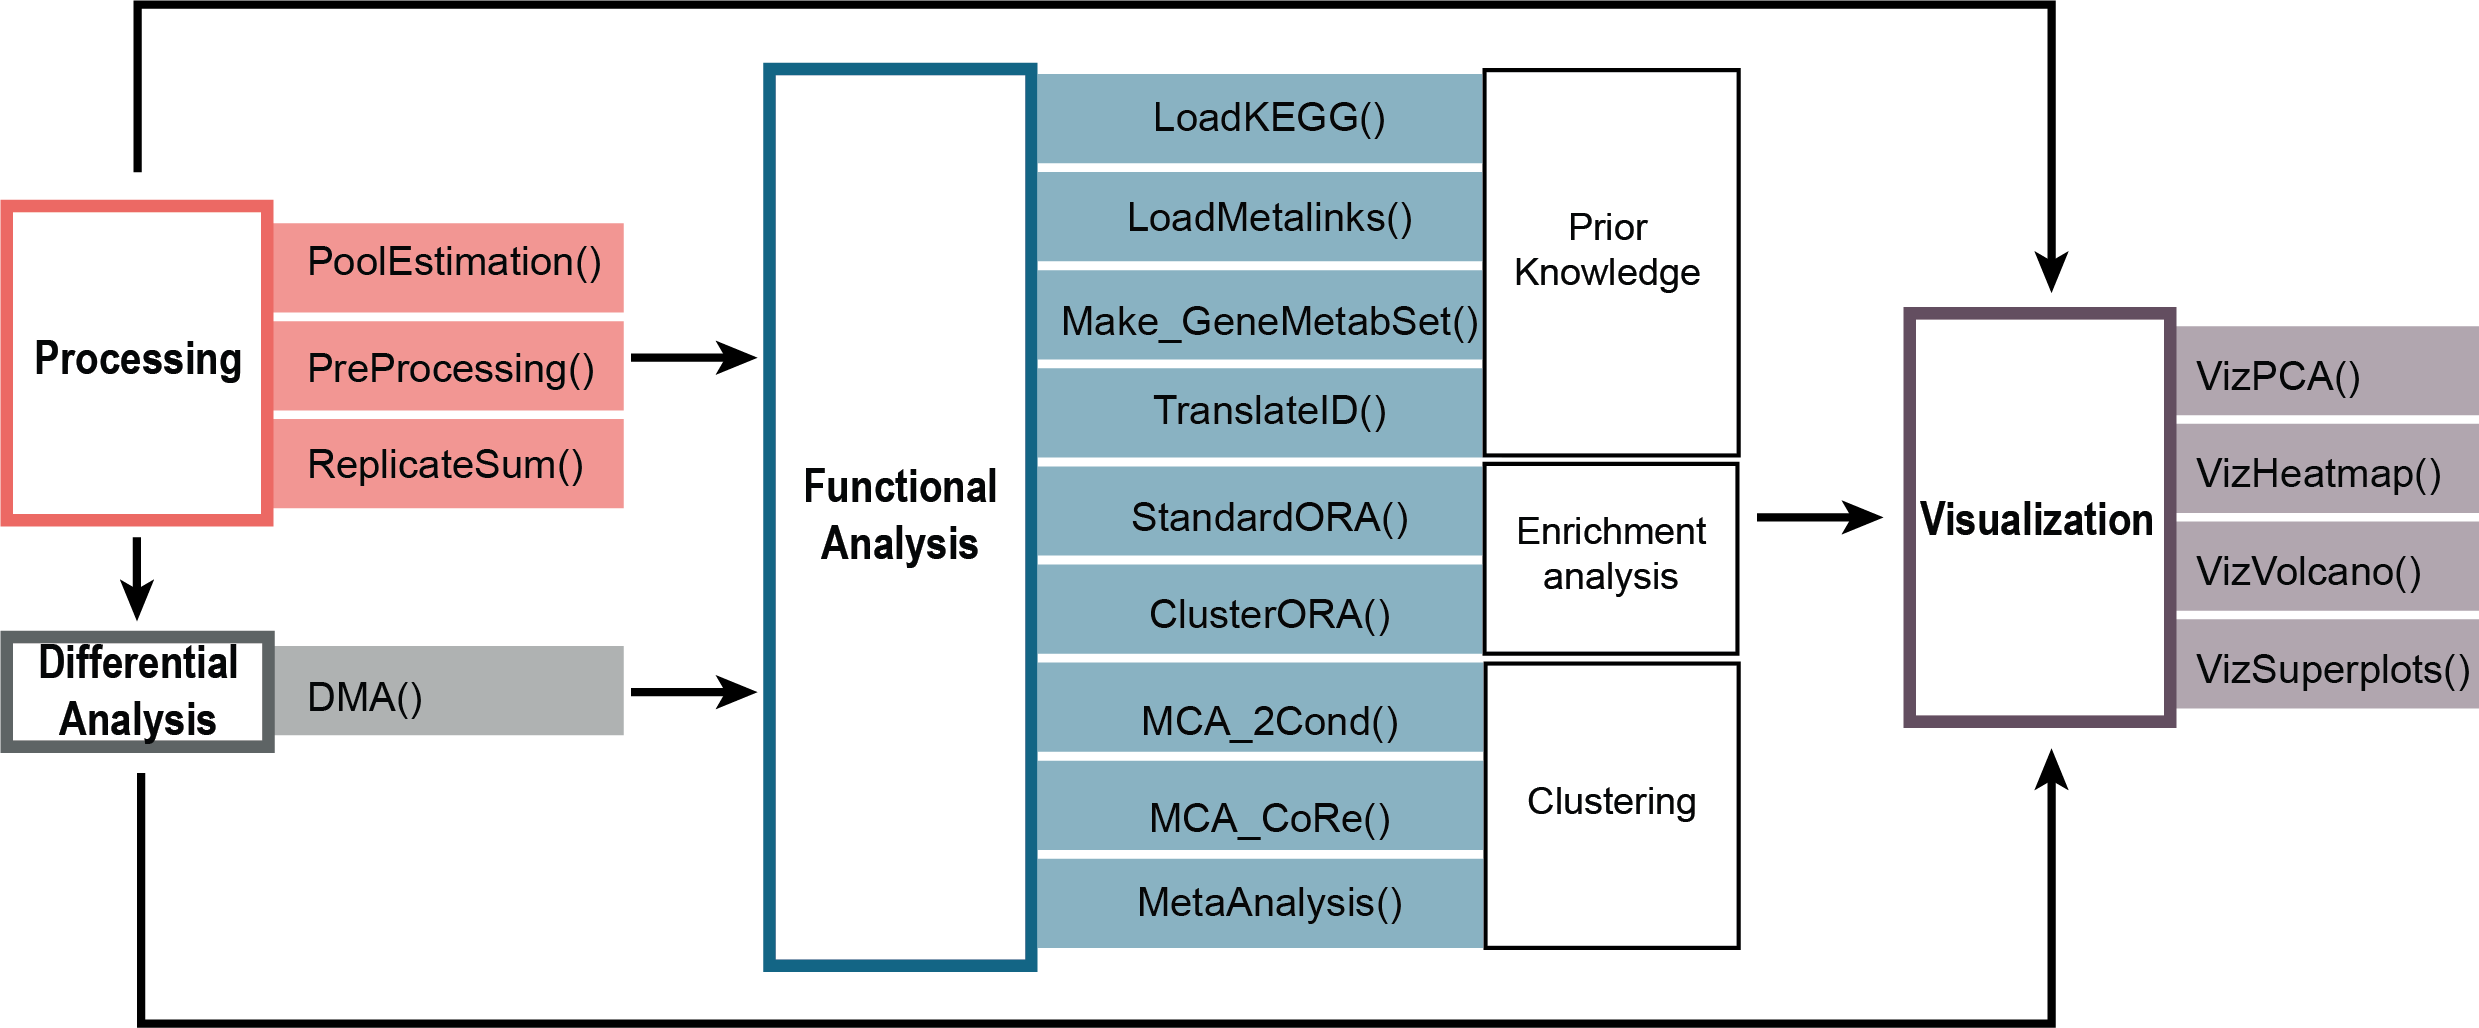
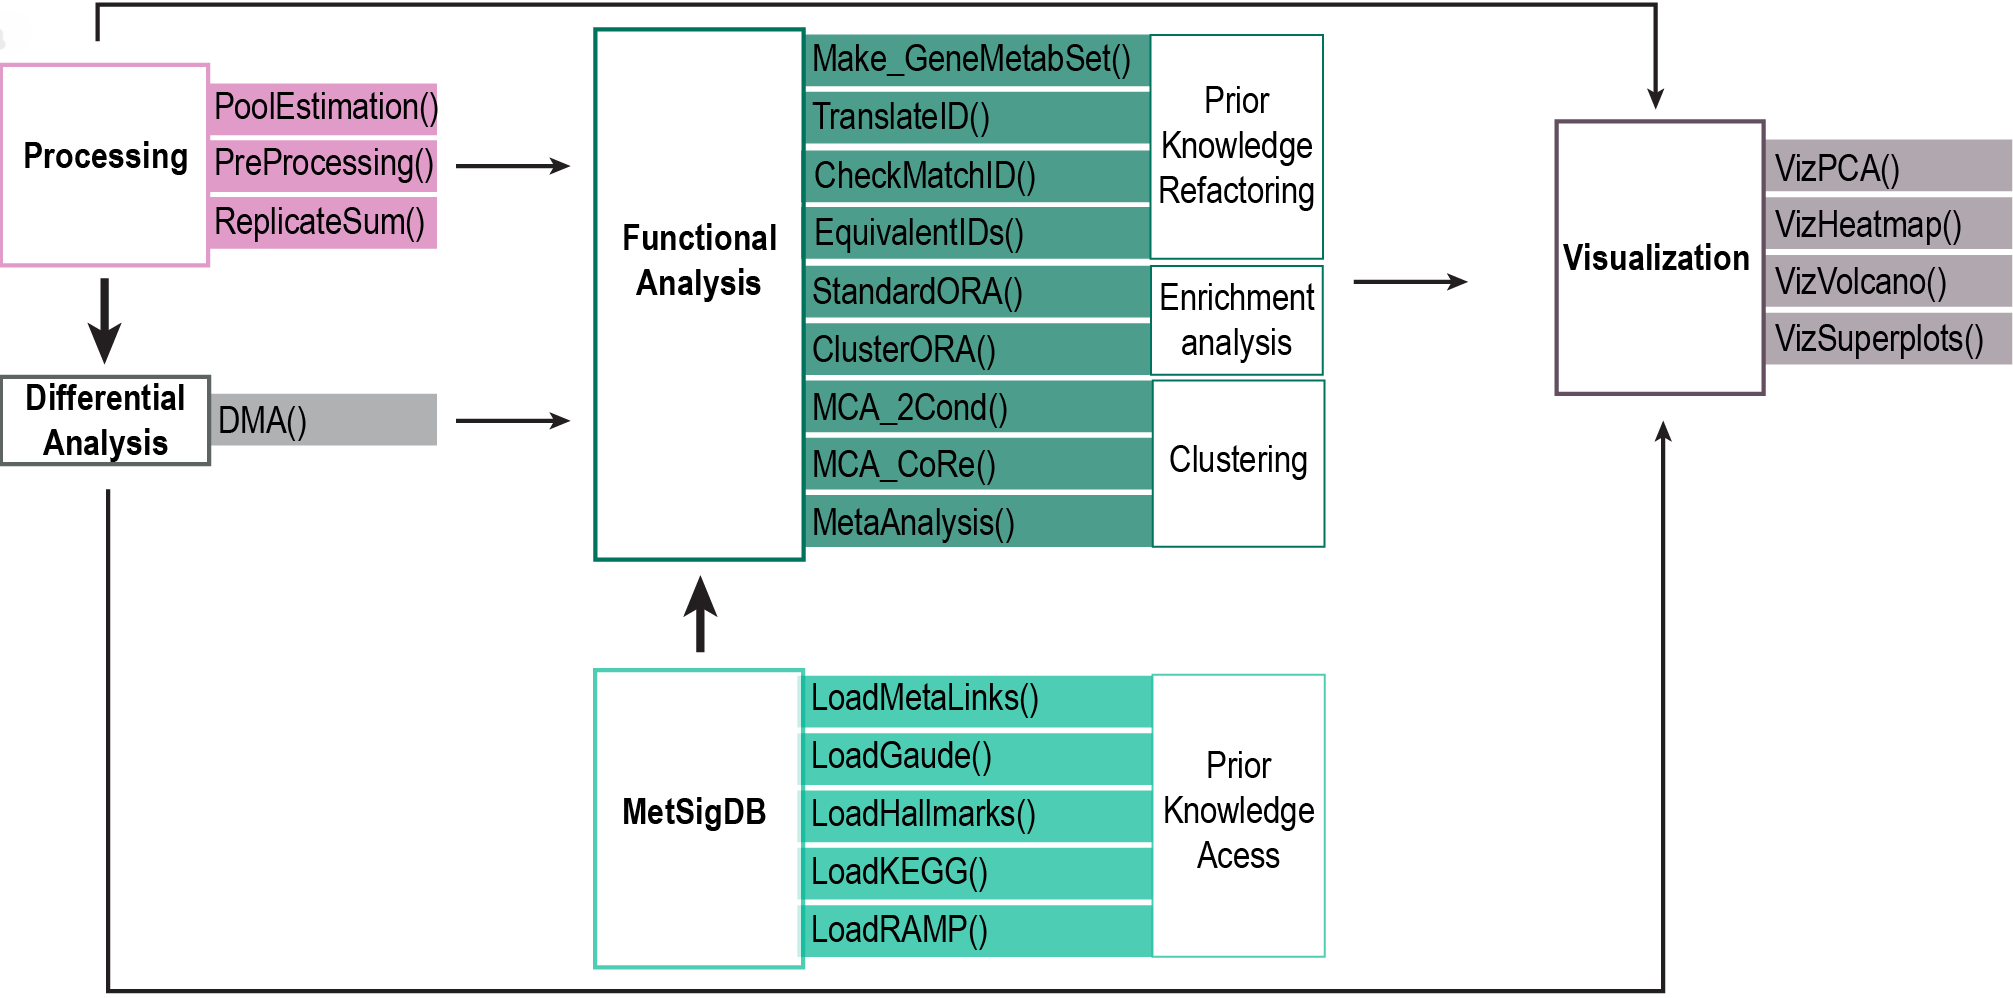
updated plot and description for 5 modules

diff --git a/README.md b/README.md
@@ -17,11 +17,12 @@ issues](https://img.shields.io/github/issues/saezlab/MetaProViz)](https://github
 and **Vi**suali**z**ation), a free open-source R-package that provides
 mechanistic hypotheses from metabolomics data by integrating prior
 knowledge from literature with metabolomics. MetaProViz offers an
-interactive framework consisting of four modules: Processing,
-differential analysis, functional analysis and visualization of both
-intracellular and exometabolomics (=consumption-release (CoRe) data).
-Those modules and their functions can be used independently from each
-other or in combination (**Fig.1**).
+interactive framework consisting of five modules: Processing,
+differential analysis, prior knwoledge access and refactoring,
+functional analysis and visualization of both intracellular and
+exometabolomics (=consumption-release (CoRe) data). Those modules and
+their functions can be used independently from each other or in
+combination (**Fig.1**).
 
   
 <center>
@@ -86,8 +87,8 @@ data](https://saezlab.github.io/MetaProViz/articles/Standard%20Metabolomics.html
 media](https://saezlab.github.io/MetaProViz/articles/CoRe%20Metabolomics.html)  
 - [Enrichment
 Analysis](https://saezlab.github.io/MetaProViz/articles/EnrichmentAnalysis.html)  
-- [Metadata
-Analysis](https://saezlab.github.io/MetaProViz/articles/Metadata%20Analysis.html)  
+- [Sample Metadata
+Analysis](https://saezlab.github.io/MetaProViz/articles/Sample%20Metadata%20Analysis.html)  
   
 Here you will find a brief overview and information about the
 installation of the package and its dependencies.
